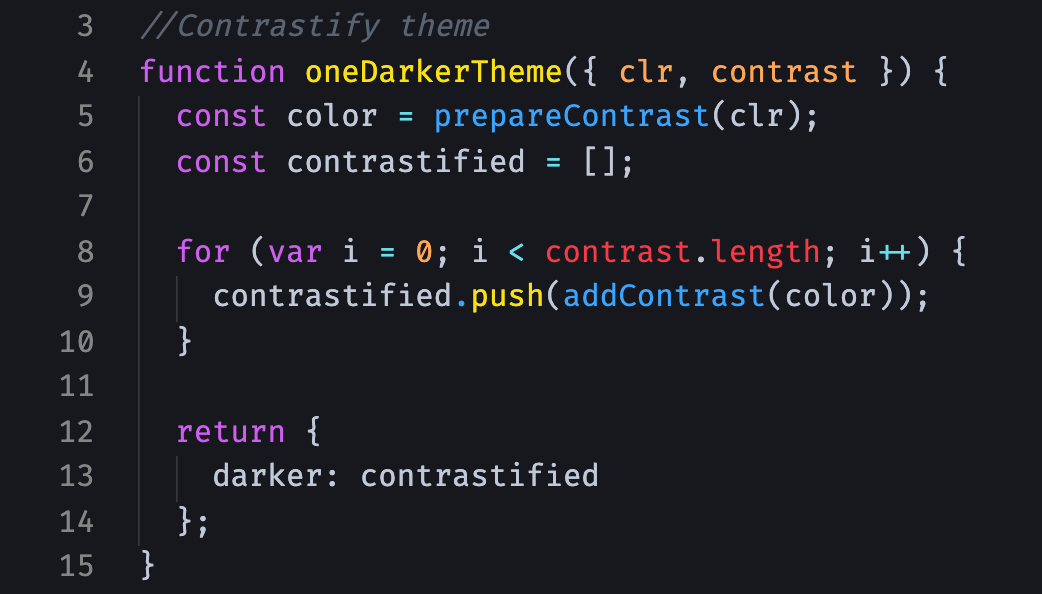
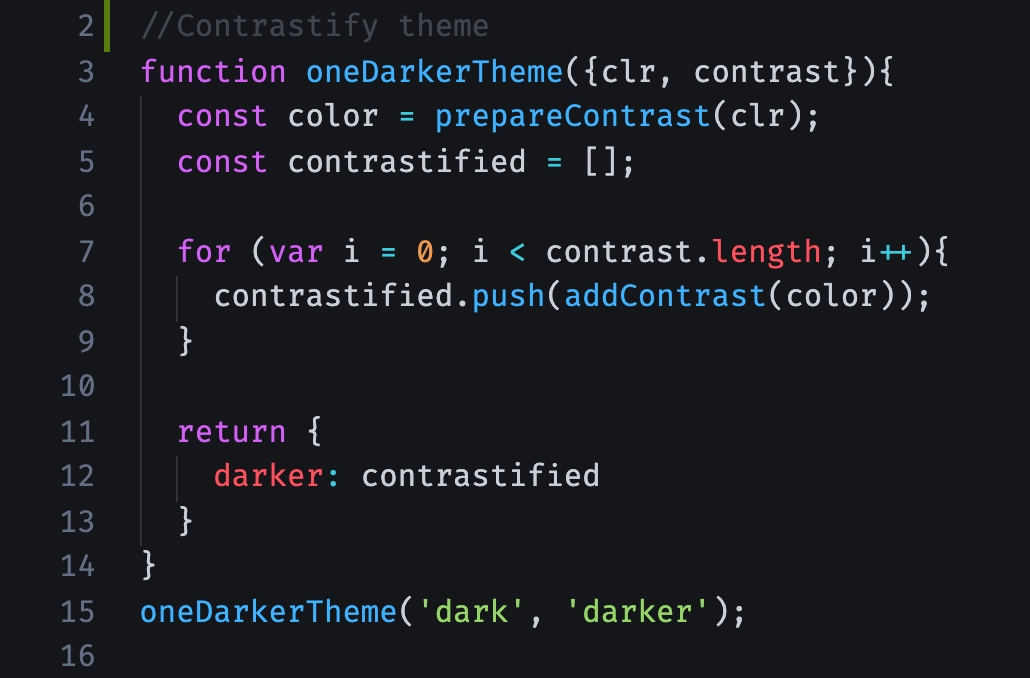
Updated screenshot

diff --git a/samples/javascript.js b/samples/javascript.js
@@ -1,3 +1,5 @@
+
+//Contrastify theme
 function oneDarkerTheme({clr, contrast}){
   const color = prepareContrast(clr);
   const contrastified = [];
@@ -11,6 +13,8 @@ function oneDarkerTheme({clr, contrast}){
   }
 }
 oneDarkerTheme('dark', 'darker');
+
+
 
 
 const json = {
